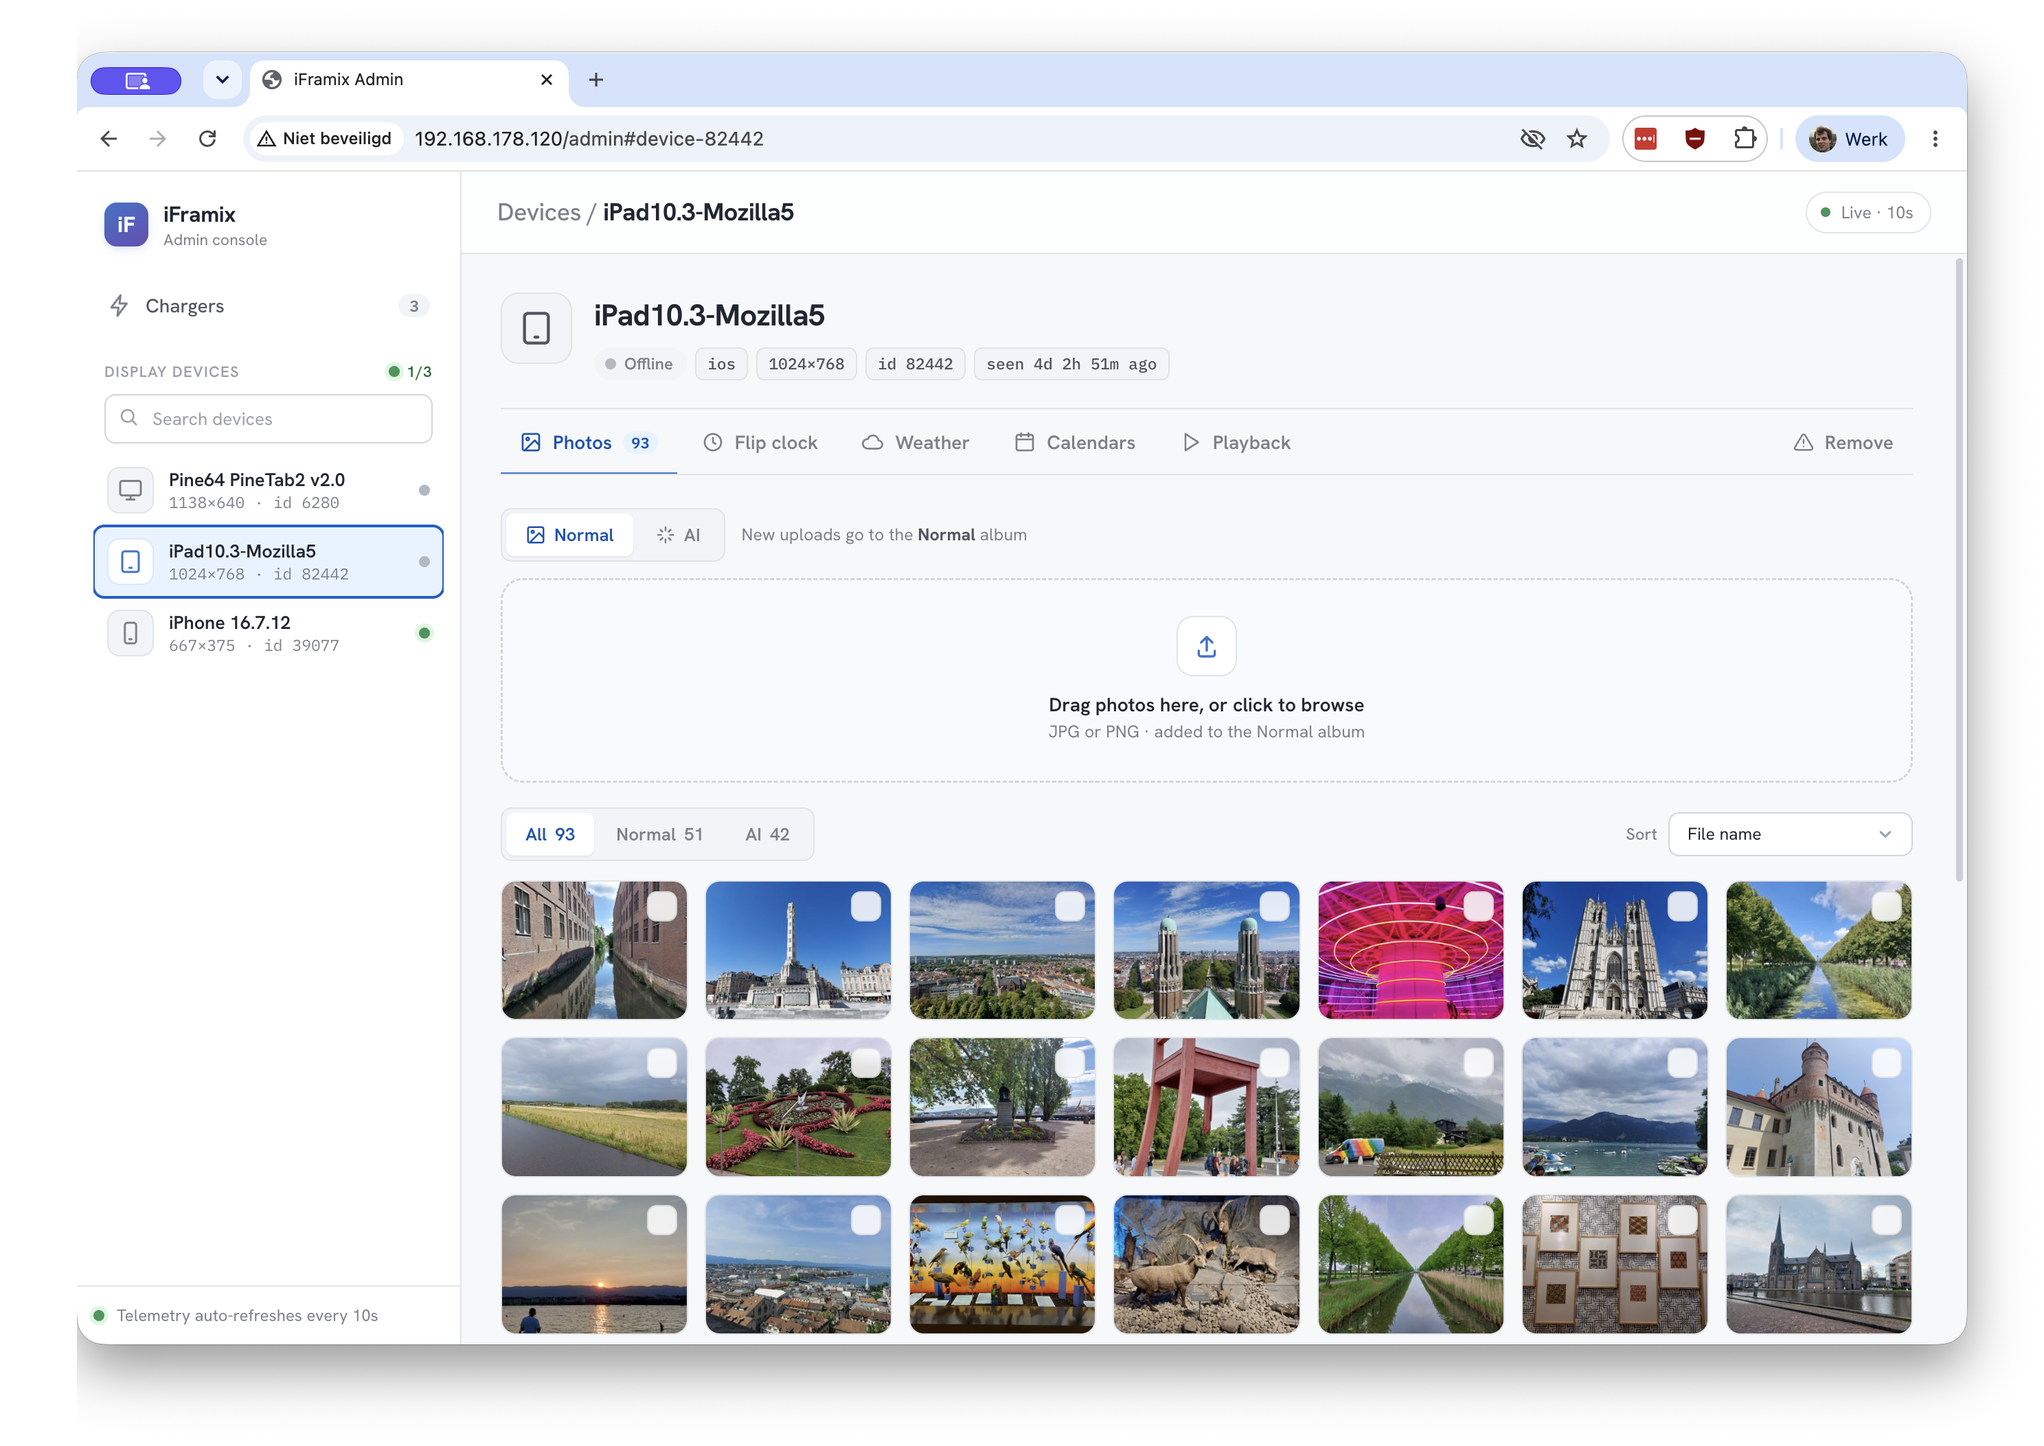
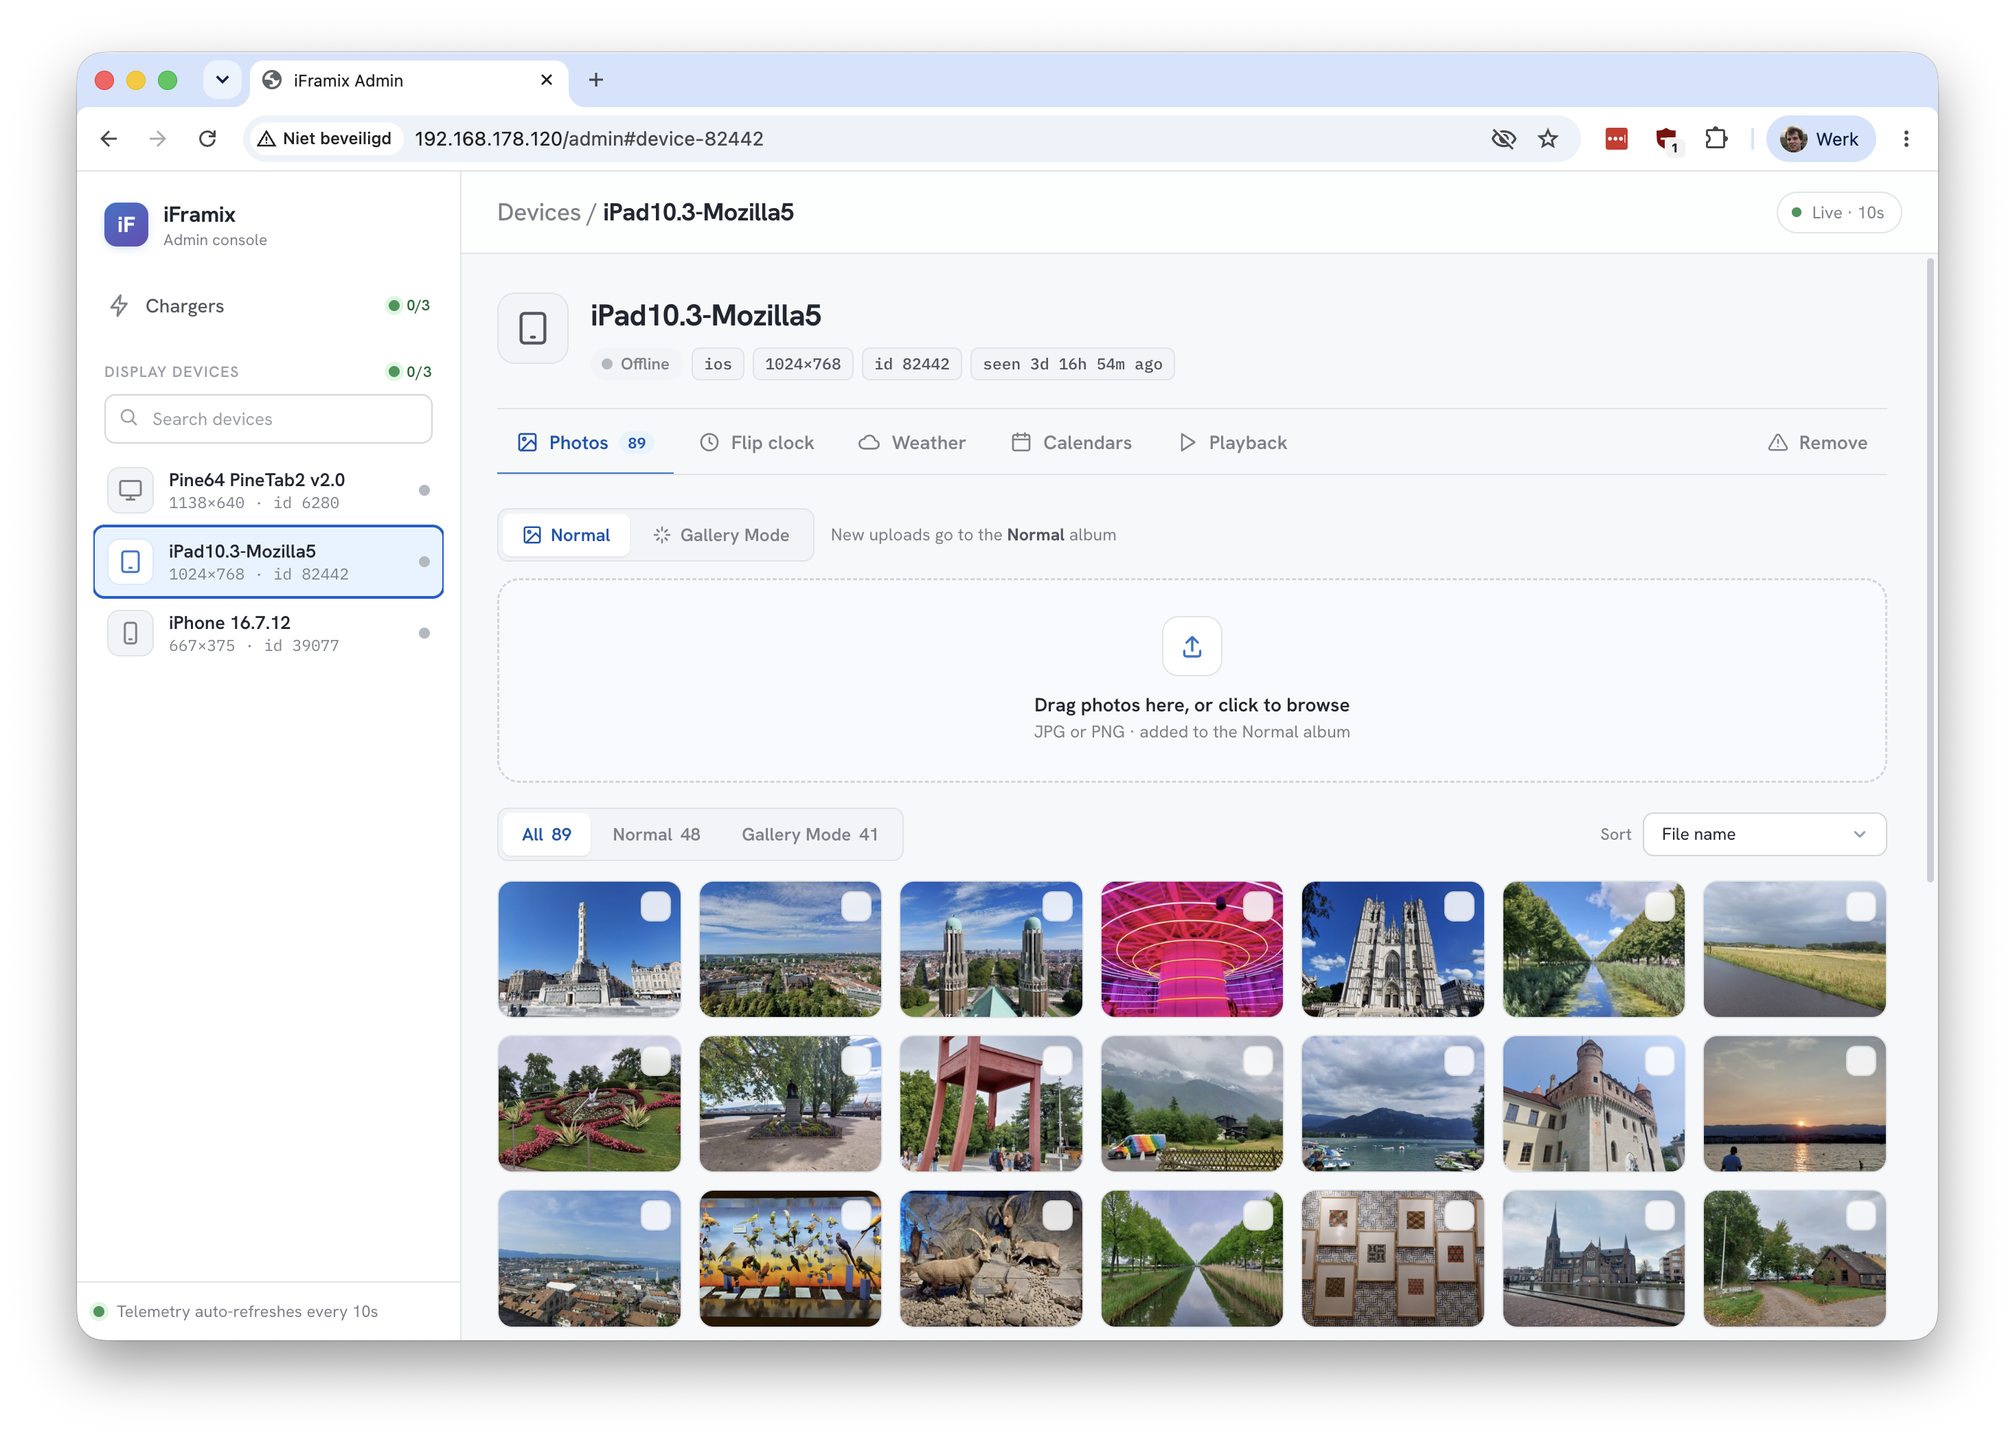
Renamed "Photos + AI" to "Gallery Mode"
Recent iframix app versions now call this
section "Gallery Mode". To align with that,
renamed "Photos + AI" and "AI" in the admin
section to "Gallery Mode". In terms of functionality,
nothing has changed.

diff --git a/src/api/handlers/admin_assets/admin.js b/src/api/handlers/admin_assets/admin.js
@@ -420,7 +420,7 @@ function renderGallery(view) {
         empty.hidden = shown.length > 0;
         empty.textContent = "No " +
             (state.filter === "all" ? "" :
-                state.filter === "ai" ? "AI " : "normal ") +
+                state.filter === "ai" ? "Gallery Mode " : "normal ") +
             "photos yet — drop some above to get started.";
     }
 
@@ -448,7 +448,7 @@ function photoNode(view, m, type) {
     if (type === 'ai') {
         const badge = document.createElement("span");
         badge.className = "ph-badge ai";
-        badge.textContent = "AI"
+        badge.textContent = "Gallery Mode"
         el.appendChild(badge);
     }
 
@@ -602,7 +602,7 @@ async function handleFiles(view, fileList) {
         });
         if (data.code === 1) {
             toast(assetIds.length +
-                (kind === "ai" ? " AI image" : " photo") +
+                (kind === "ai" ? " Gallery Mode photo" : " photo") +
                 (assetIds.length > 1 ? "s" : "") + " added");
             loadPhotos(view);
         } else {
@@ -770,7 +770,7 @@ async function saveWeather(view) {
 
 const PLAYBACK_MODULE_NAMES = {
     album: "Photos",
-    album_ai: "AI Photos",
+    album_ai: "Gallery Mode",
     screensaver: "Flip Clock",
     weather: "Weather",
     calendar: "Calendar",
@@ -1155,7 +1155,7 @@ function closeLightbox() {
     $("img", lb).src = "";
 }
 
-/* ===================== AI template modal ===================== */
+/* ===================== Gallery Mode template modal ===================== */
 //
 // The modal keeps the design's layout (large live preview left, named
 // option list right) but the catalog is the real aspect-aware one: the
@@ -1548,7 +1548,7 @@ function wireDeviceView(view) {
     // photos: upload kind
     wireSeg($('[data-seg="upload-kind"]', view), (v) => {
         state.kind = v;
-        const label = v === "ai" ? "AI" : "Normal";
+        const label = v === "ai" ? "Gallery Mode" : "Normal";
         $all(".kind-label", view).forEach(
             (el) => { el.textContent = label; });
     });

diff --git a/src/api/handlers/admin_assets/admin.html b/src/api/handlers/admin_assets/admin.html
@@ -108,12 +108,12 @@
     <img alt="">
 </div>
 
-<!-- AI display template picker -->
-<div id="template-modal" class="modal-scrim" role="dialog" aria-modal="true" aria-label="AI display template">
+<!-- Gallery Mode display template picker -->
+<div id="template-modal" class="modal-scrim" role="dialog" aria-modal="true" aria-label="Gallery Mode display template">
     <div class="modal ai-modal">
         <header class="modal-head">
             <div>
-                <h3>AI display template</h3>
+                <h3>Gallery Mode display template</h3>
                 <p class="modal-sub">Choose how this photo is framed on the display</p>
             </div>
             <button class="modal-x close" type="button" aria-label="Close"><svg width="18" height="18" viewBox="0 0 24 24" fill="none" stroke="currentColor" stroke-width="2" stroke-linecap="round" stroke-linejoin="round"><path d="M18 6 6 18M6 6l12 12"/></svg></button>
@@ -122,7 +122,7 @@
             <div class="tpl-preview">
                 <div class="display-frame modal-preview"></div>
                 <div class="tpl-fname">
-                    <span class="ph-badge ai">AI</span>
+                    <span class="ph-badge ai">Gallery Mode</span>
                     <span class="mono modal-meta"></span>
                     <span class="tpl-orient"></span>
                 </div>

diff --git a/src/api/handlers/admin_assets/admin.css b/src/api/handlers/admin_assets/admin.css
@@ -640,7 +640,7 @@ select.input { appearance: none; cursor: pointer;
 .photo.selected::after { content:""; position:absolute; inset:0; background: var(--accent); opacity:0.1;
   pointer-events: none; }
 
-/* template chip on AI thumbnails */
+/* template chip on Gallery Mode thumbnails */
 .photo .ph-tpl {
   position: absolute; left: 0; right: 0; bottom: 0;
   padding: 16px 8px 6px;
@@ -883,7 +883,7 @@ table.chargers { width: 100%; border-collapse: collapse; font-size: 13.5px; min-
 .lb-close:hover { background: oklch(1 0 0 / 0.22); }
 
 /* ===========================================================================
-   Modal + AI display template picker
+   Modal + Gallery Mode display template picker
    =========================================================================== */
 .modal-scrim {
   position: fixed; inset: 0; z-index: 160;

diff --git a/src/api/handlers/admin.py b/src/api/handlers/admin.py
@@ -88,11 +88,11 @@ _WEATHER_STYLES = [
     (3, "Weather Station", "weather/04-weather-station.png"),
 ]
 # Playback modules exactly as iFramix Pro 2.3.1 posts them, with the
-# labels the native app shows (album = Photos, album_ai = AI Photos,
+# labels the native app shows (album = Photos, album_ai = Gallery Mode,
 # screensaver = Flip Clock, weather = Weather, calendar = Calendar).
 _PLAYBACK_MODULES = [
     ("album", "Photos"),
-    ("album_ai", "AI Photos"),
+    ("album_ai", "Gallery Mode"),
     ("screensaver", "Flip Clock"),
     ("weather", "Weather"),
     ("calendar", "Calendar"),
@@ -539,7 +539,7 @@ class AdminMixin:
                                 {_icon('image', 15)}Normal</button>
                             <button type="button" data-value="ai"
                                     aria-pressed="false">
-                                {_icon('sparkle', 15)}AI</button>
+                                {_icon('sparkle', 15)}Gallery Mode</button>
                         </div>
                         <span class="note">New uploads go to the
                             <b class="kind-label">Normal</b> album</span>
@@ -566,7 +566,7 @@ class AdminMixin:
                                 <span class="fcount"
                                       data-fcount="normal">0</span></button>
                             <button type="button" data-value="ai"
-                                    aria-pressed="false">AI
+                                    aria-pressed="false">Gallery Mode
                                 <span class="fcount" data-fcount="ai">0</span>
                             </button>
                         </div>
@@ -772,7 +772,7 @@ class AdminMixin:
                         <div class="dz-text">
                             <h4>Remove this display device</h4>
                             <p>Deletes the device's session, charger binding,
-                            calendars, AI album config, photo settings, and
+                            calendars, Gallery Mode config, photo settings, and
                             its <code>photos/</code>,
                             <code>photos_with_ai/</code> and
                             <code>logs/</code> directories. This cannot be

diff --git a/src/api/handlers/settings.py b/src/api/handlers/settings.py
@@ -17,7 +17,7 @@ logger = logging.getLogger(__name__)
 
 # Module identifiers used by the iFramix Pro 2.3.1 playback settings,
 # exactly as the native app posts them: album = Photos, album_ai =
-# Photos + AI, screensaver = Flip Clock, weather = Weather Station,
+# Gallery Mode, screensaver = Flip Clock, weather = Weather Station,
 # calendar = Calendar.
 PLAYBACK_MODULES = ("album", "album_ai", "screensaver", "weather", "calendar")
 

diff --git a/docs/admin-page.md b/docs/admin-page.md
@@ -39,15 +39,15 @@ Contains all your display devices.
 
 Selecting a device in the sidebar opens its settings (six tabs):
 
-- **Photos**: A gallery for all your photos with an **All / Normal / AI** filter. Choose the type of photos (Normal or AI), then drag photos onto the dropzone (or click it to browse). Uploads start immediately. The **Sort** dropdown offers **File name** (newest first), **Upload date** (newest file modification time first), and **Capture date (EXIF)** (newest EXIF capture date first, with photos that have no readable capture date sorted last).
+- **Photos**: A gallery for all your photos with an **All / Normal / Gallery Mode** filter (Gallery Mode was called "Photos + AI" before app 2.3.4). Choose the type of photos (Normal or Gallery Mode), then drag photos onto the dropzone (or click it to browse). Uploads start immediately. The **Sort** dropdown offers **File name** (newest first), **Upload date** (newest file modification time first), and **Capture date (EXIF)** (newest EXIF capture date first, with photos that have no readable capture date sorted last).
 - Clicking a normal photo opens a full-size preview
-- Clicking an **AI** photo opens the **AI display template** picker — a modal with a large live preview that renders your actual photo in the selected layout, next to a named list of every template the display can render (10 styles on 4:3 displays, 5 on 16:9 displays for horizontal photos, 4 for vertical photos). 
-- Each AI thumbnail shows a chip with its current template. 
+- Clicking a **Gallery Mode** photo opens the **Gallery Mode display template** picker — a modal with a large live preview that renders your actual photo in the selected layout, next to a named list of every template the display can render (10 styles on 4:3 displays, 5 on 16:9 displays for horizontal photos, 4 for vertical photos). 
+- Each Gallery Mode thumbnail shows a chip with its current template. 
 - Every thumbnail has a check button in its corner: tick one or more photos and use **Delete selected** to remove them in bulk (after a confirmation prompt).
 - **Flip clock**: pick the 12-hour / 24-hour format and one of the 5 flip-clock styles iFramix Pro 2.2.29 introduced.
 - **Weather**: search and select your city, choose °C / °F, and pick one of the 4 weather-station styles iFramix Pro 2.2.29 introduced.
 - **Calendars**: link an external calendar (Google / Apple iCloud / Outlook, or any iCal URL) or delete a previously linked one.
-- **Playback**: configure the playback mode iFramix Pro 2.3.1 introduced, where the display automatically switches between modules (Photos, AI Photos, Flip Clock, Weather, Calendar). In **Random** mode, pick the switch interval (1–240 minutes) and toggle which modules join the rotation. In **Fixed** mode, pick a default module and optionally add daily time rules (start time, end time, module) that override it; rules repeat daily, must stay within one day, and cannot overlap. Existing rules can be edited and deleted. Changes are applied when you press **Save playback** — the display device is notified immediately over MQTT.
+- **Playback**: configure the playback mode iFramix Pro 2.3.1 introduced, where the display automatically switches between modules (Photos, Gallery Mode, Flip Clock, Weather, Calendar). In **Random** mode, pick the switch interval (1–240 minutes) and toggle which modules join the rotation. In **Fixed** mode, pick a default module and optionally add daily time rules (start time, end time, module) that override it; rules repeat daily, must stay within one day, and cannot overlap. Existing rules can be edited and deleted. Changes are applied when you press **Save playback** — the display device is notified immediately over MQTT.
 - **Remove**: deletes the display device after confirmation. If you delete a device, all its associated data, including photos, will be deleted from the server.
 
 ## Unsupported features

diff --git a/COMPATIBILITY.md b/COMPATIBILITY.md
@@ -21,7 +21,7 @@ OS Compatibility per app:
 | iOS Controller App          | iOS 12+, iPhone 5s+ / iPod Touch 6+                         |
 | iOS Display App             | iOS 12+, iPhone 5s+ / iPod Touch 6+ / iPad Air 1+ / Mini 2+ |
 | Legacy iPad Web-App         | iOS 9 + iOS 10, iPad 2/3/4/Mini 1. No calendar support.     |
-| Ultra-Legacy iPad 1 Web-App | iOS 5, iPad 1. Photos / Photos + AI only.                   |
+| Ultra-Legacy iPad 1 Web-App | iOS 5, iPad 1. Photos / Gallery Mode only.                  |
 | Android Controller App      | Android 5.0+, Phones only                                   |
 | Android Display App         | Android 5.0+, Phones and tables                             |
 | 
@@ -30,7 +30,7 @@ OS Compatibility per app:
 
 This section indicates which end-user features work with which served webapp version, and what the correct MQTT endpoints are for that version.
 
-| (Web)App Version       | Photos | Photos + AI | Flip Clock      | Weather Station | iCharGuard | Power Save Mode | Calendar | Playback Mode | Uses HTTPS? | App MQTT Address           | Charger MQTT Address |
+| (Web)App Version       | Photos | Gallery Mode | Flip Clock      | Weather Station | iCharGuard | Power Save Mode | Calendar | Playback Mode | Uses HTTPS? | App MQTT Address           | Charger MQTT Address |
 |------------------------|--------|-------------|-----------------|-----------------|------------|-----------------|----------|---------------|-------------|----------------------------|----------------------|
 | 2.3.5                  | YES    | YES *1      | YES ( 5 styles) | YES (4 styles)  | YES        | YES             | YES *2   | YES           | YES         | wss://<host>:443/websocket | TCP <host>:1883      |
 | 2.3.4                  | YES    | YES *1      | YES ( 5 styles) | YES (4 styles)  | YES        | YES             | YES *2   | YES           | YES         | wss://<host>:443/websocket | TCP <host>:1883      |
@@ -41,8 +41,8 @@ This section indicates which end-user features work with which served webapp ver
 | 2.1.3                  | YES    | YES *1      | YES ( 1 style)  | YES (1 style)   | YES        | YES             | NO       | NO            | NO          | ws://<host>:8083/mqtt      | TCP <host>:1883      |
 | Ultra-Legacy iPad 1 *3 | YES    | YES *1      | NO              | NO              | YES        | NO              | NO       | NO            | YES         | NOT USED                   | TCP <host>:1883      |
 
-*1 Photos + AI works differently: It displays photo capture time, camera model and exposure (aperture and ISO)
+*1 Gallery Mode (called "Photos + AI" before app 2.3.4) works differently: It displays photo capture time, camera model and exposure (aperture and ISO)
 
 *2 Calendar is only supported from within the native apps, not on the legacy iPad web-app. Online calendar functionality is limited.
 
-*3 The ultra-legacy iPad 1 web-app only supports Photos and Photos + AI mode.
+*3 The ultra-legacy iPad 1 web-app only supports Photos and Gallery Mode.

diff --git a/docs/photos.md b/docs/photos.md
@@ -1,8 +1,8 @@
 # Photos
 
-There are 2 methods to view photos: "Photos" and "Photos + AI".
+There are 2 methods to view photos: "Photos" and "Gallery Mode" (called "Photos + AI" before app 2.3.4).
 
-## Local replacement for AI mode
+## Local replacement for Gallery Mode
 
 In the real product, photos with AI are processed by an AI service, which generates a title and a quote that should match the content of the photo (but works terribly in practice).
 
@@ -21,7 +21,7 @@ In the real product, photos are uploaded to the cloud using either the Qiniu SDK
 
 In this local implementation, photos are served from the `photos` and `photos_with_ai` directories on your own server instead.
 
-Photos are stored per device in `photos/{device_id}/` (normal photo viewer) or `photos_with_ai/{device_id}/` (AI photo viewer). 
+Photos are stored per device in `photos/{device_id}/` (normal photo viewer) or `photos_with_ai/{device_id}/` (Gallery Mode viewer). 
 Each display device has its own photo collection, identified by `device_id`.
 
 The upload flow is simulated in such a way that upload traffic for the Qiniu SDK is redirected to a POST endpoint on `/`. 

diff --git a/README.md b/README.md
@@ -313,7 +313,7 @@ may have to proxy this project through your Web Server (search for 'apache rever
 ### How things work under-the-hood
 
 - [Architecture and MQTT message flow](docs/architecture.md): components, topics, and how they talk to each other.
-- [Photos](docs/photos.md): local replacement for AI mode and cloud uploads, classification flow.
+- [Photos](docs/photos.md): local replacement for Gallery Mode and cloud uploads, classification flow.
 - [Weather](docs/weather.md): Open-Meteo adapter, per-device config, weather icons.
 - [Project structure](docs/project-structure.md): full file layout and runtime artefacts.
 - [Compatibility](COMPATIBILITY.md): which features work with which app version.
